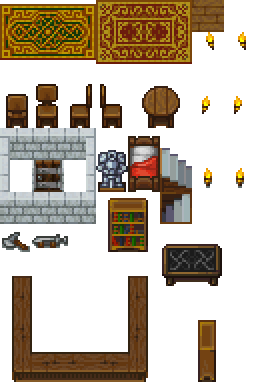
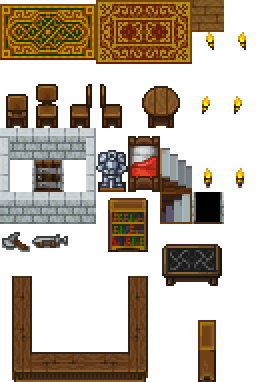
Fix testing area bugs, first part of secret area.

Changed region(s): [[0.75, 0.4895, 0.875, 0.6047]]

diff --git a/src/testing/areas/grove_house_switch.py b/src/testing/areas/grove_house_switch.py
@@ -17,8 +17,9 @@ def getTile(x, y, z):
 # Unlock the door!
 tile = getTile(4, 0, 0.0) # closed door on north wall
 tile.walkable = True
-tile.type = area.getTileType(7) # change to wooden floor tile
-tile.door = createDoor("areas/grove_house.tmx", 5, 8, 0)
+tile.type = area.getTileType(55) # change to open door
+tile.door = createDoor("areas/secret_room.tmx", 4, 4, 0)
 area.requestRedraw()
 playSnd("sounds/door.oga") # unlocking sound
+
 

diff --git a/src/testing/areas/doorsound.py b/src/testing/areas/doorsound.py
@@ -1,0 +1,7 @@
+def playSnd(filename):
+    snd = resourcer.getSample(filename)
+    if snd: # snd will be None if game is run without audio
+        snd.play()
+
+playSnd("sounds/door.oga") # closing sound
+
